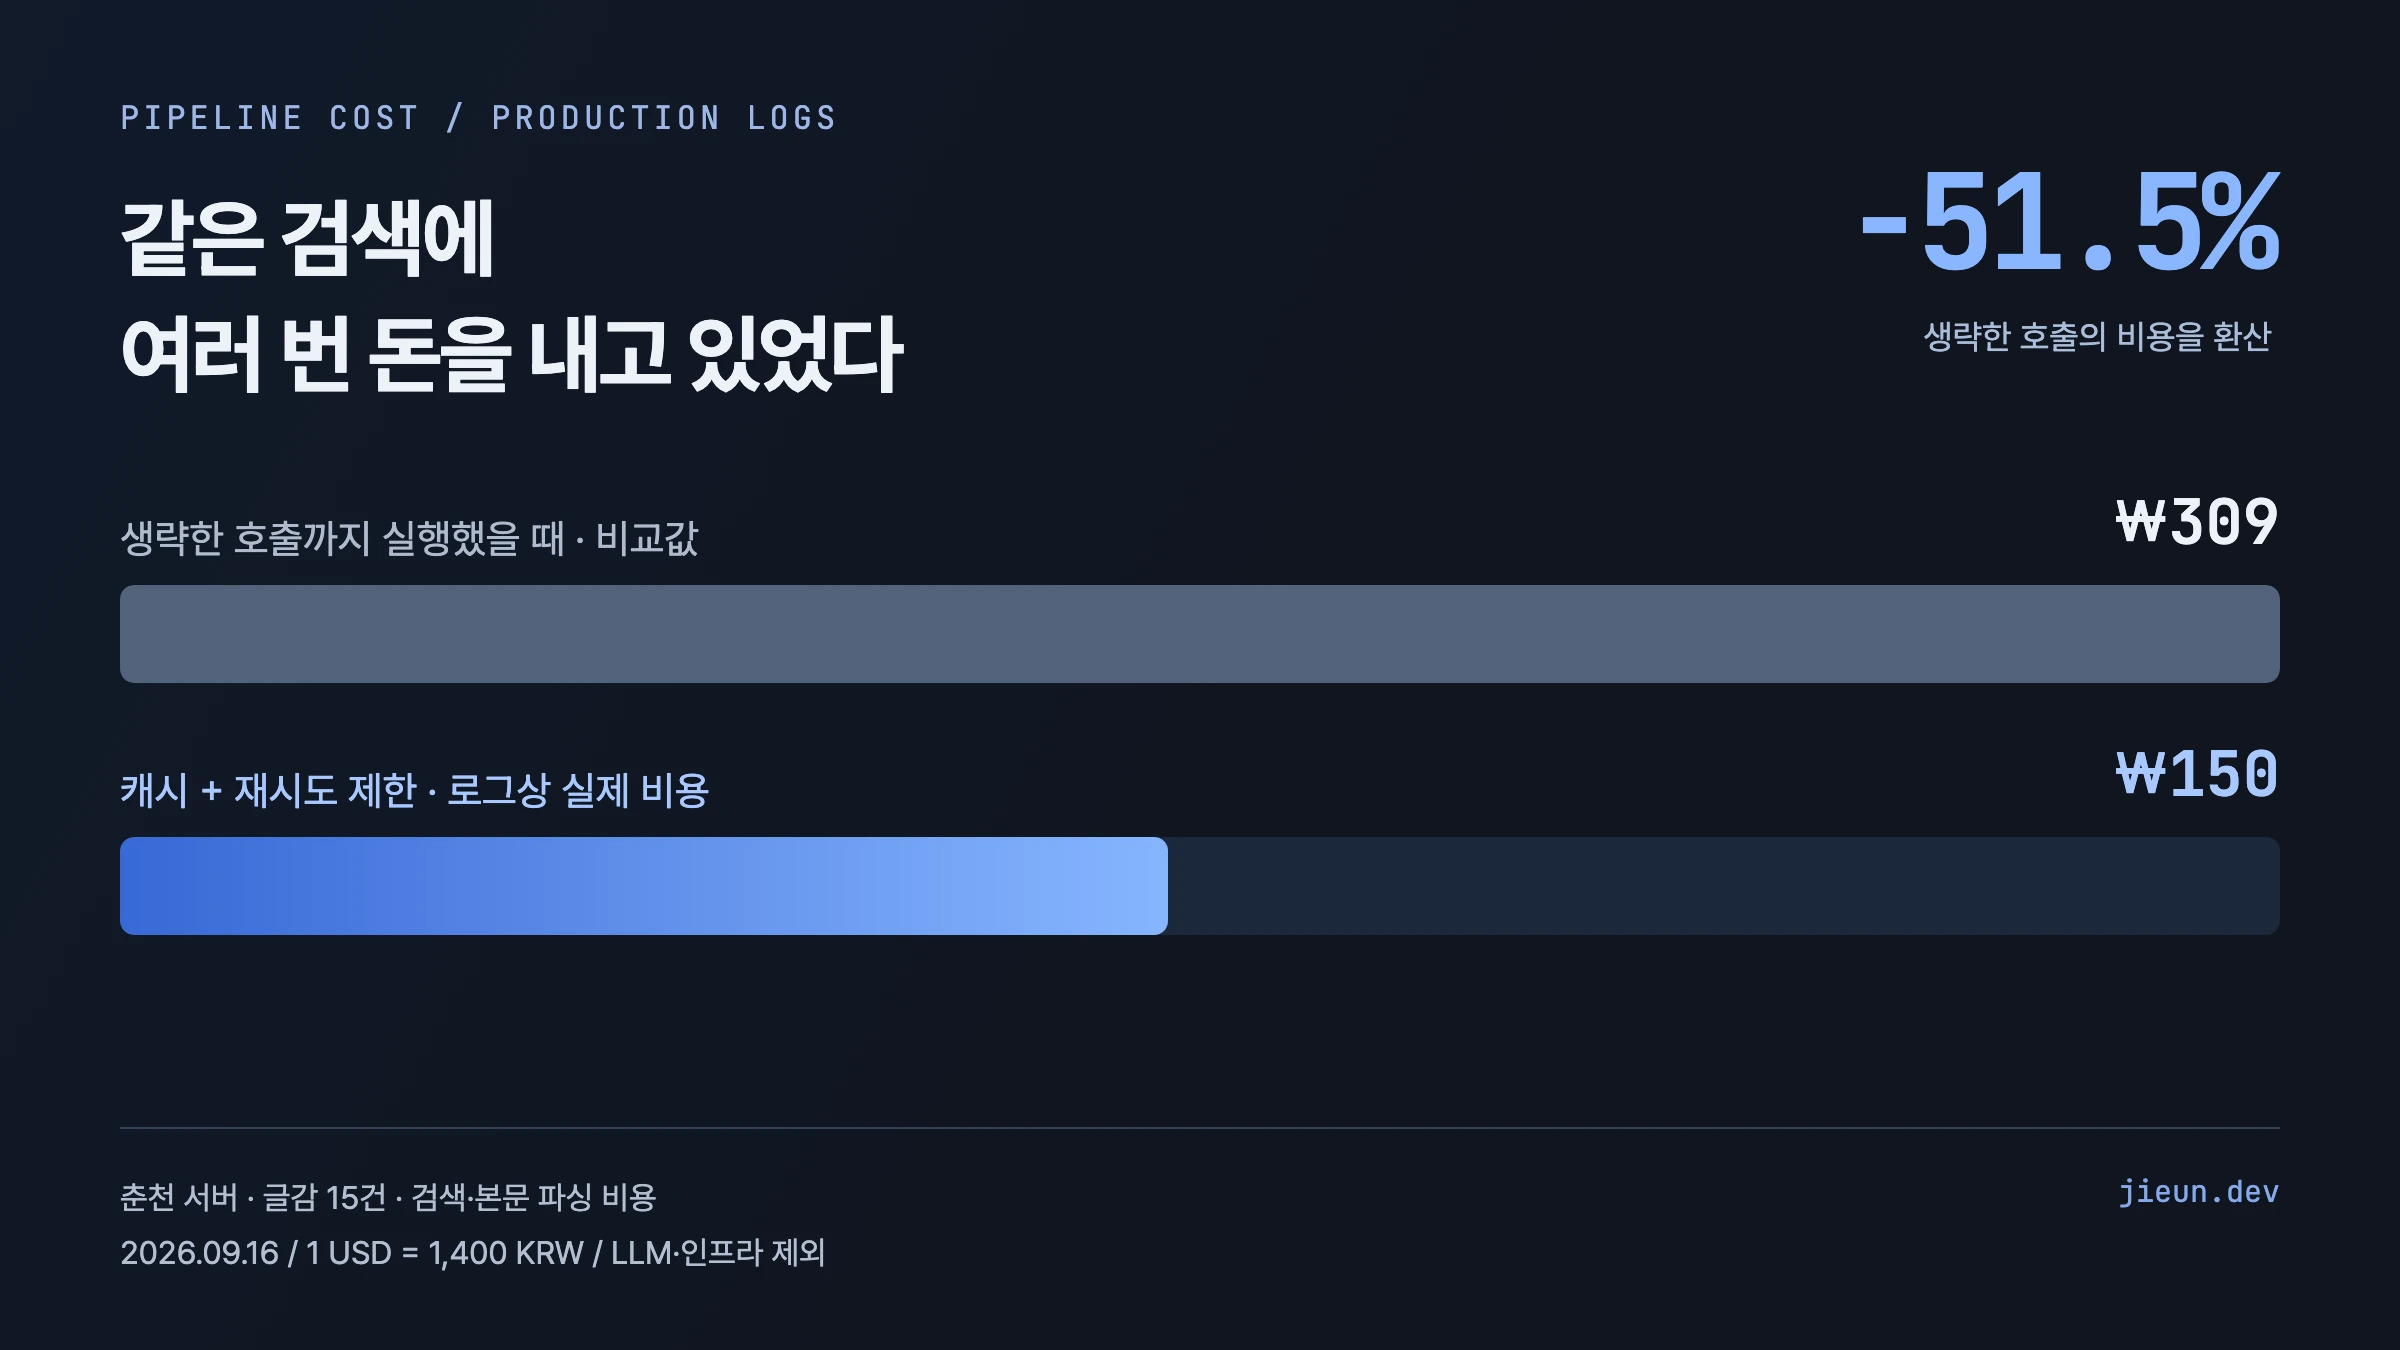
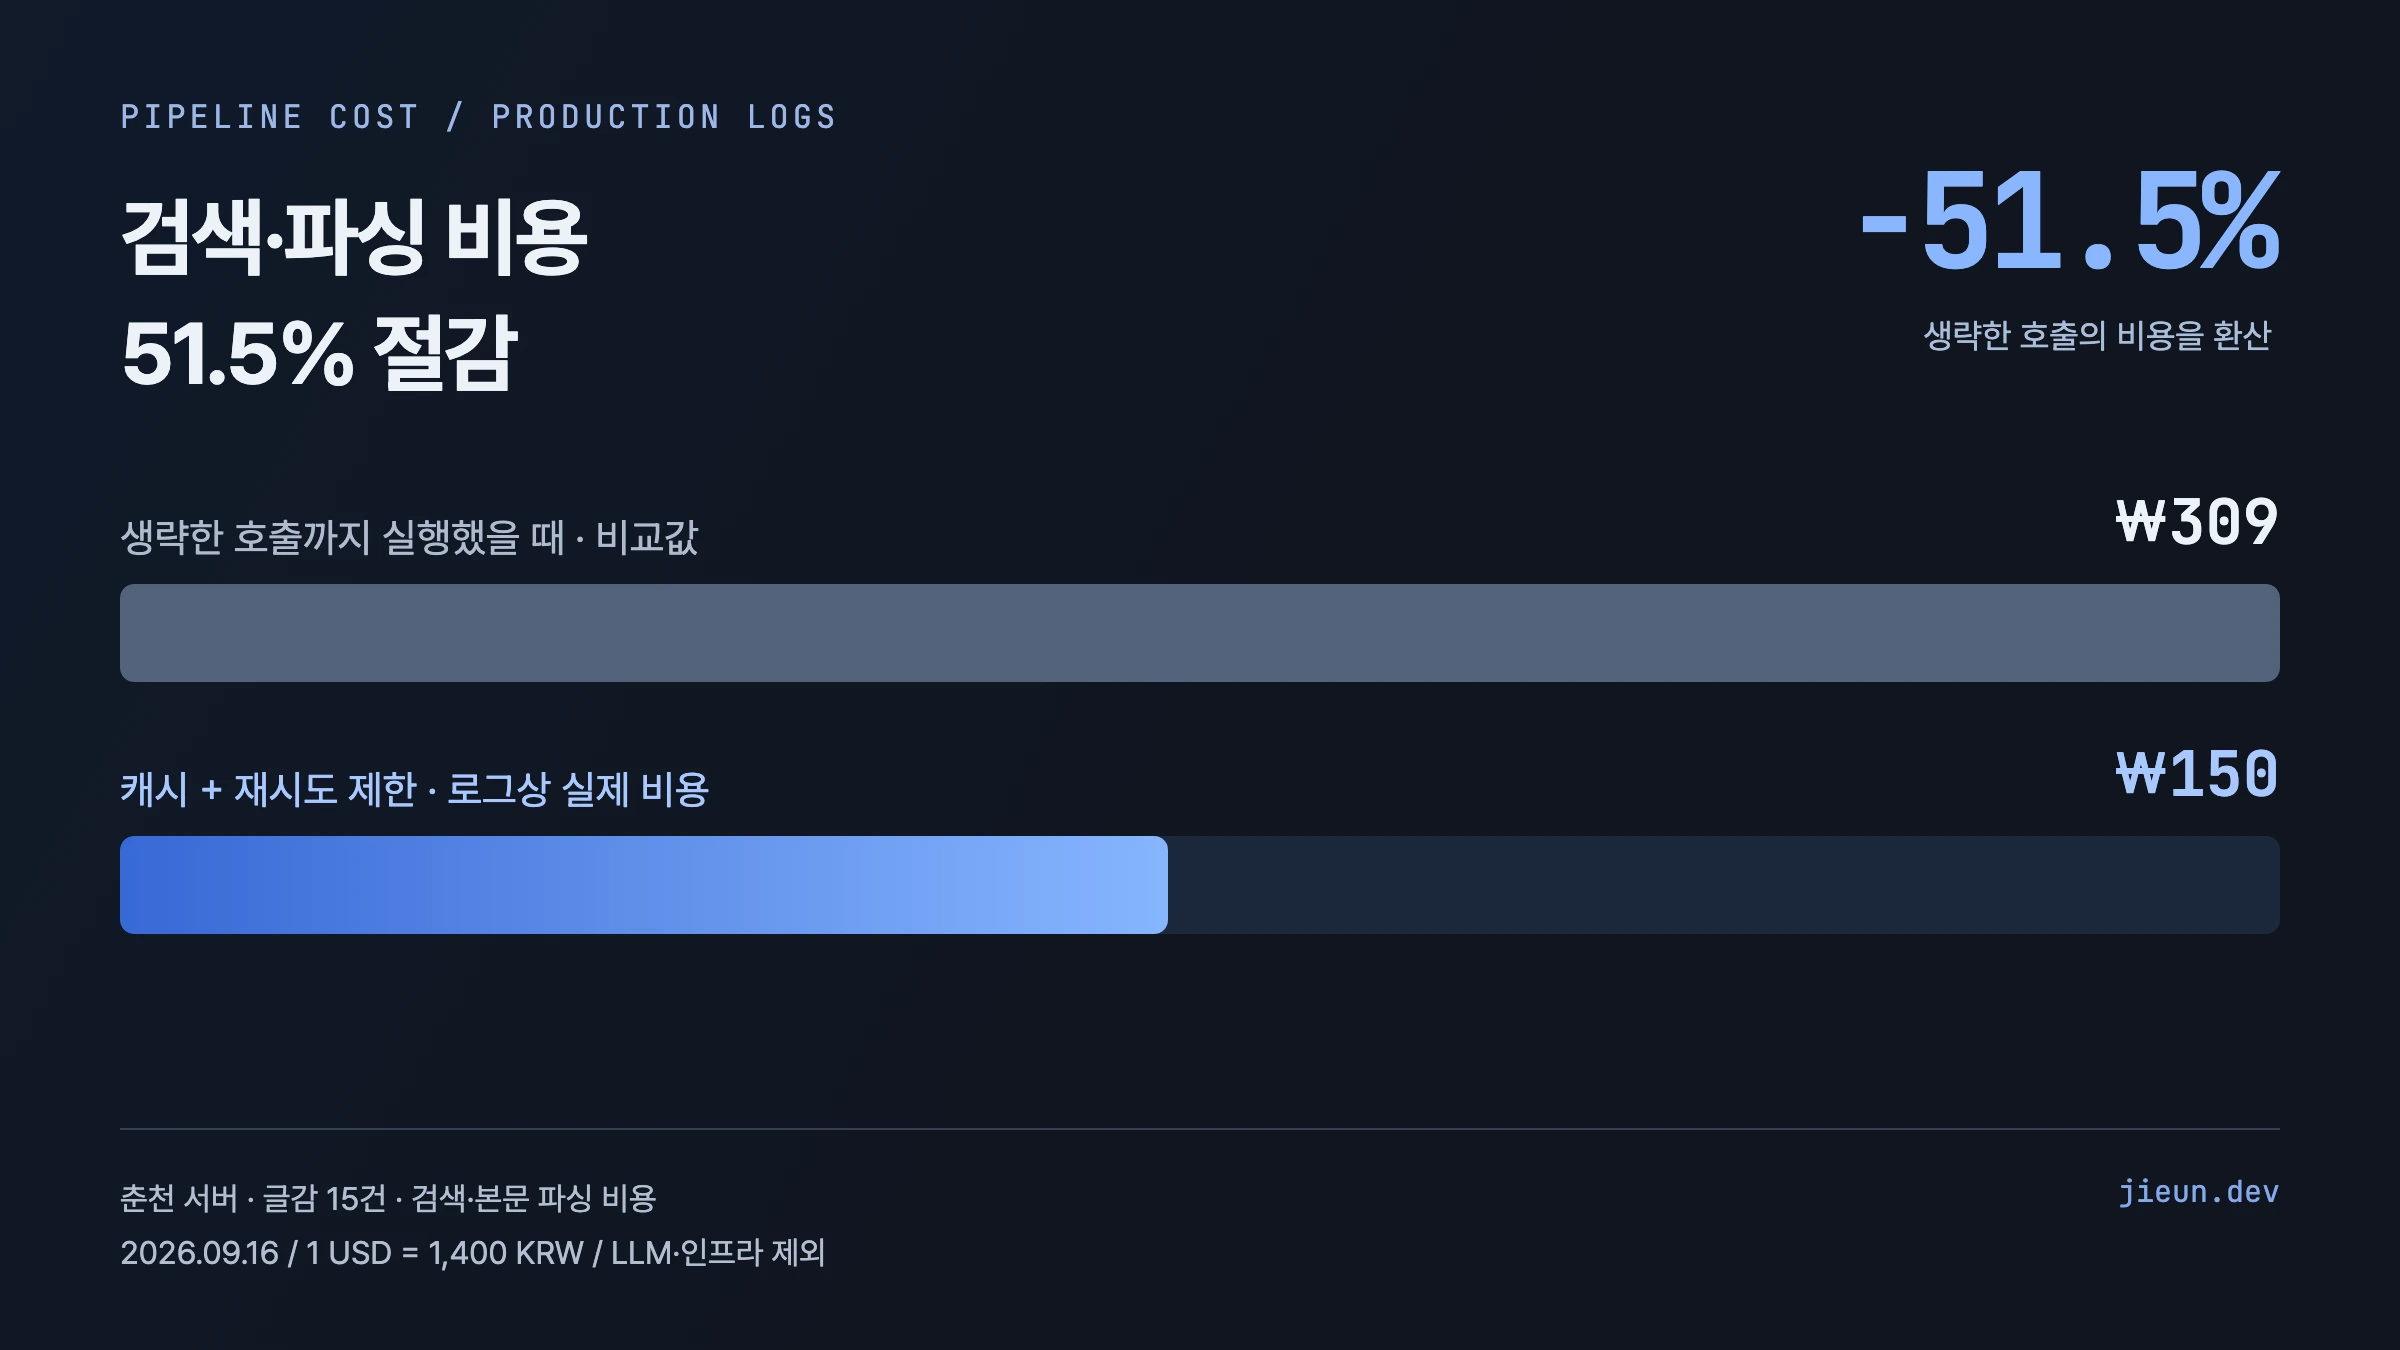
Lead the cost article with savings and place it after the Grok experiment
Align bilingual titles and cover charts with the cost reduction outcome.

Constraint: Retain September 16 as the measurement update date while publishing on August 18.
Confidence: high
Scope-risk: narrow
Tested: Astro build (209 pages), bilingual output checks, cover visual review, GitGuardian.

diff --git a/src/content/blog/en/cutting-ai-blog-pipeline-costs-by-avoiding-duplicate-searches.md b/src/content/blog/en/cutting-ai-blog-pipeline-costs-by-avoiding-duplicate-searches.md
@@ -1,7 +1,8 @@
 ---
-title: "Measuring the Cost of an AI Blog Pipeline — We Were Paying for the Same Search More Than Once"
+title: "How I Cut AI Blog Generation Costs by Reducing Duplicate Searches and Failed Retries"
 description: "I recalculated the search and full-text parsing cost for 15 topic candidates from the Chuncheon production server logs. The measured cost was about 150 KRW; the counterfactual with omitted calls added back was about 309 KRW."
-pubDate: 2026-09-16
+pubDate: 2026-08-18
+updatedDate: 2026-09-16
 tags: ["observability", "caching", "pipeline", "cost"]
 category: devops
 draft: false

diff --git a/src/content/blog/ko/cutting-ai-blog-pipeline-costs-by-avoiding-duplicate-searches.md b/src/content/blog/ko/cutting-ai-blog-pipeline-costs-by-avoiding-duplicate-searches.md
@@ -1,7 +1,8 @@
 ---
-title: "AI 블로그 파이프라인의 원가를 재봤다 — 같은 검색에 여러 번 돈을 내고 있었다"
+title: "중복 검색과 실패할 재시도를 줄여 AI 블로그 생성 비용을 낮췄다"
 description: "춘천 운영 서버 로그로 글감 15건의 검색·본문 파싱 비용을 다시 계산했다. 실제 비용은 약 150원, 생략 호출을 되살린 비교값은 약 309원이었다."
-pubDate: 2026-09-16
+pubDate: 2026-08-18
+updatedDate: 2026-09-16
 tags: ["observability", "caching", "pipeline", "cost"]
 category: devops
 draft: false
